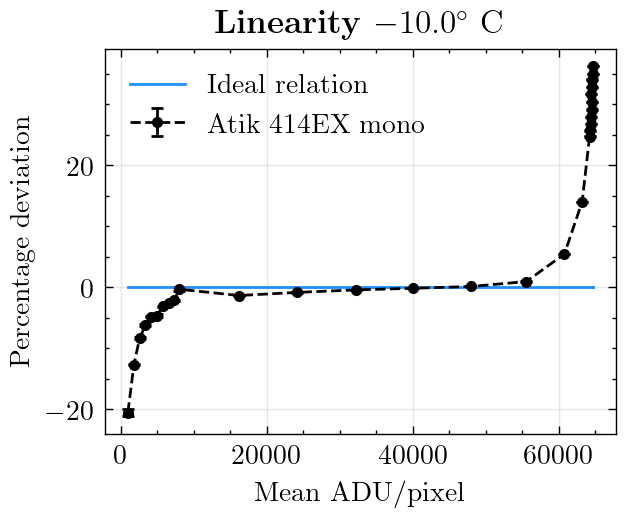
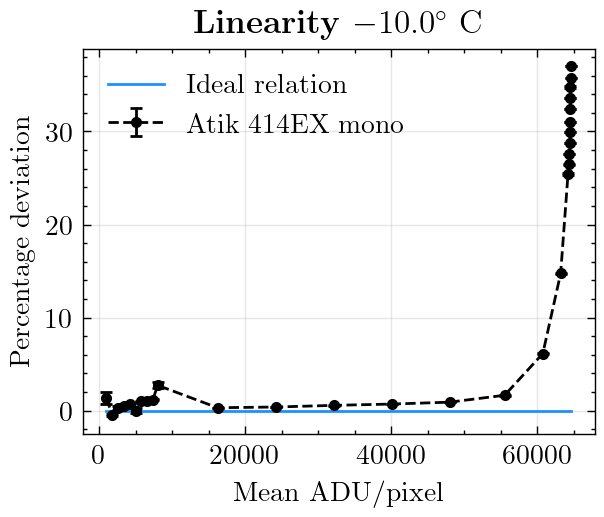
New linearity!

diff --git a/ccd.py b/ccd.py
@@ -736,7 +736,7 @@ class CCD:
         # Preliminary estimation of ideal linearity curve
         reference_point         =   self.linearity[9, 1]
         ideal_slope             =   reference_point / query_points[9]
-        # ideal_offset            =   0
+        ideal_offset            =   0
 
         # Linear regression to the first three data points
         # to estimate the zero-point correction to the exposure time (time calibration)
@@ -745,13 +745,13 @@ class CCD:
         time_offset             =   np.roots(linear_model)
 
         # Apply time calibration to the exposure times
-        query_points            =   np.add(query_points, time_offset)
+        query_points            =   np.subtract(query_points, time_offset)
         self.linearity[:, 0]    =   query_points
 
         print(time_offset, linear_model, ideal_slope)
 
         # Construct the ideal linear relation and compute deviations from that
-        ideal_linearity         =   linear_model_func(query_points)  # np.add(np.multiply(query_points, ideal slope), ieal_offset)  #
+        ideal_linearity         =   np.add(np.multiply(query_points, ideal_slope), ideal_offset)  # linear_model_func(query_points)  #
         deviations              =   np.multiply(np.divide(np.subtract(ideal_linearity, linearity_data), linearity_data), 100)
         errors                  =   np.multiply(np.divide(error_data, linearity_data), 100)
 
